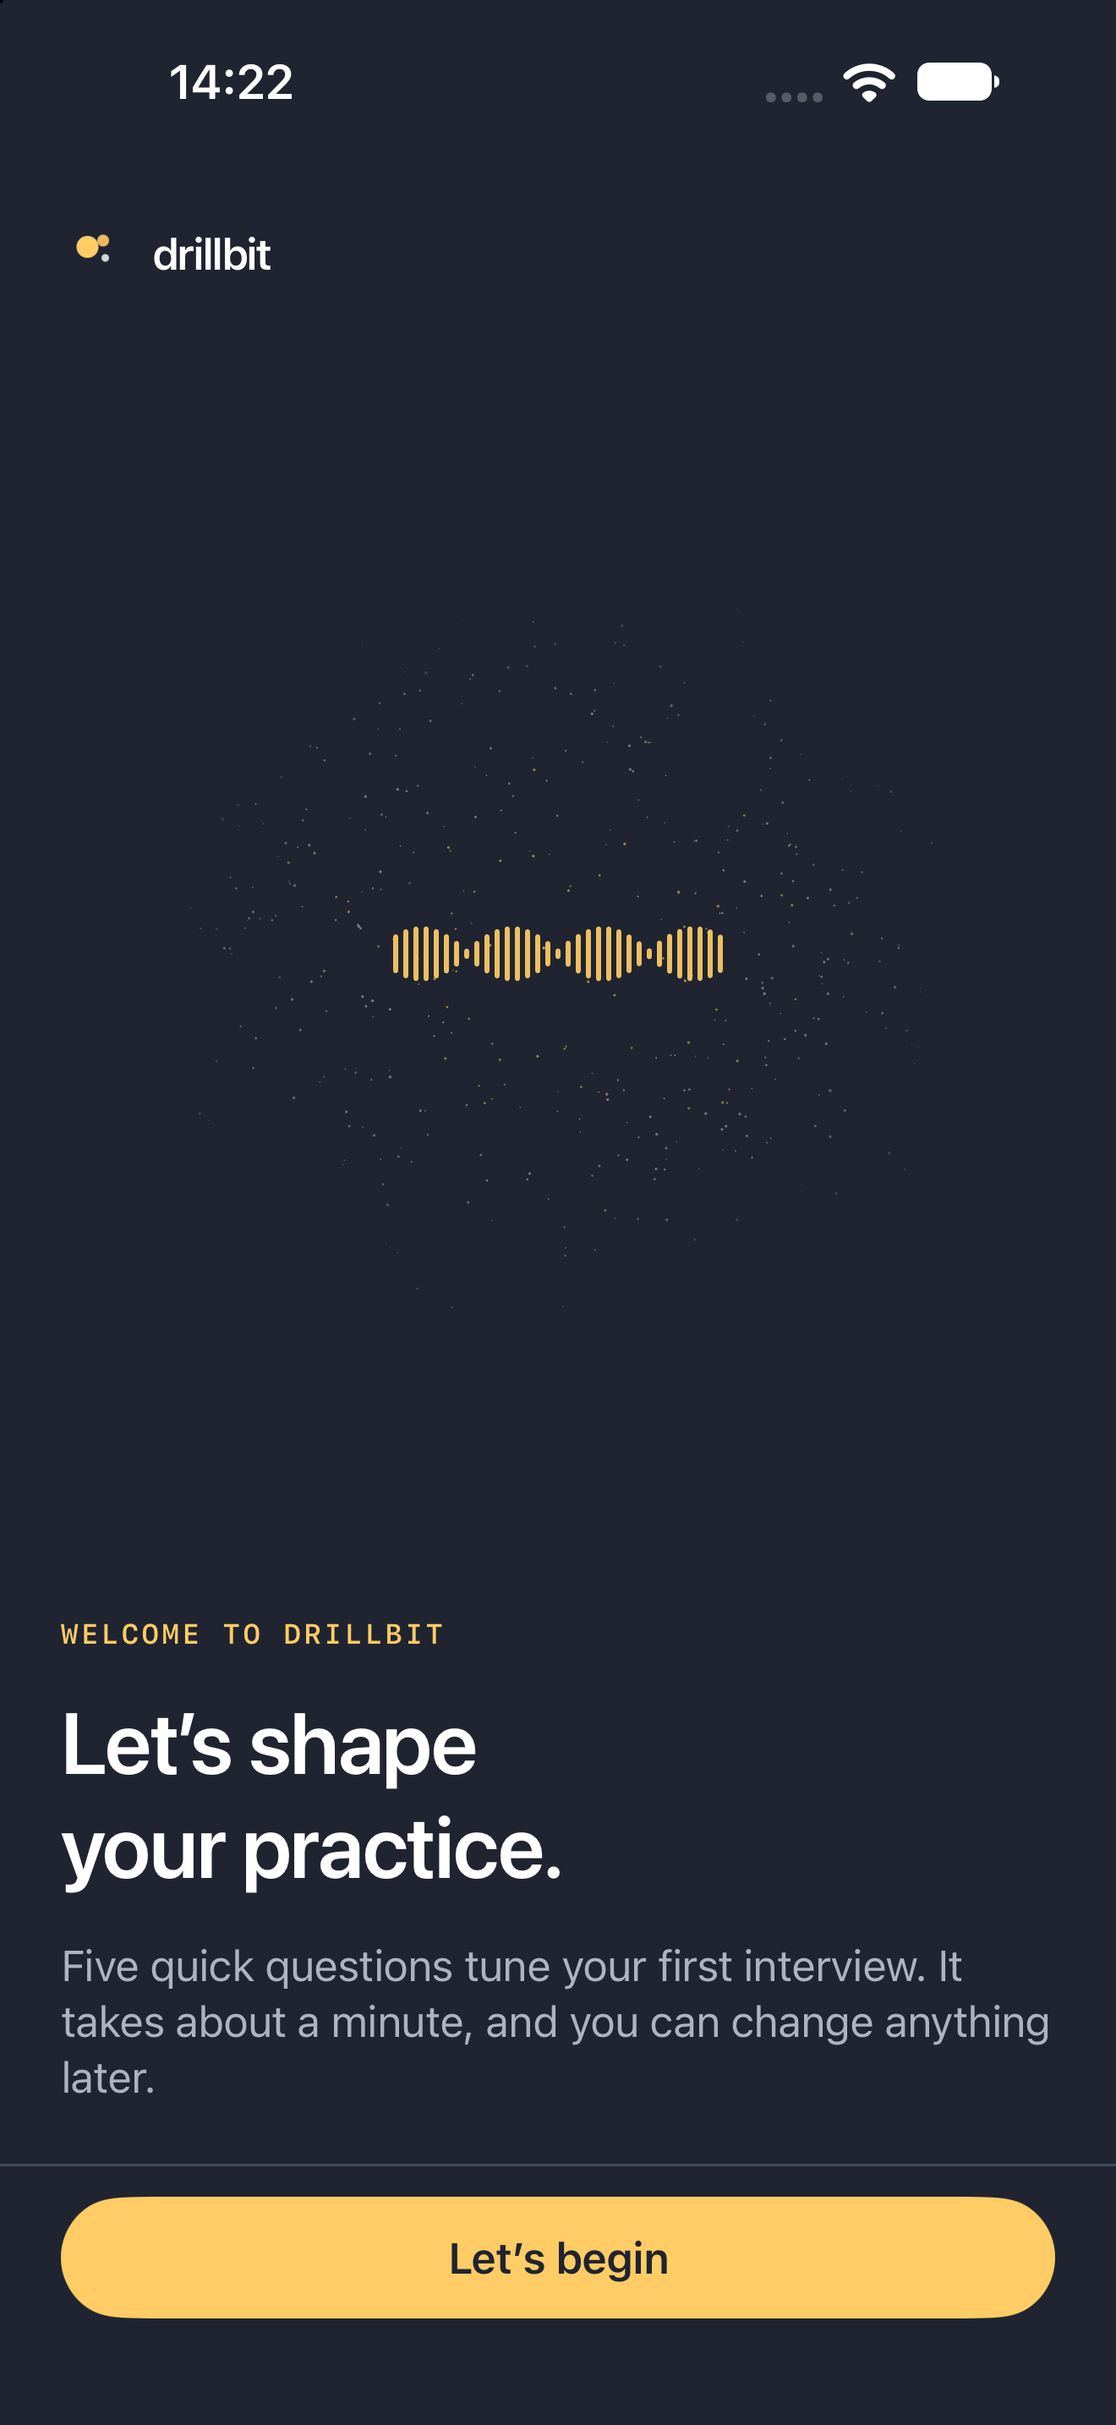
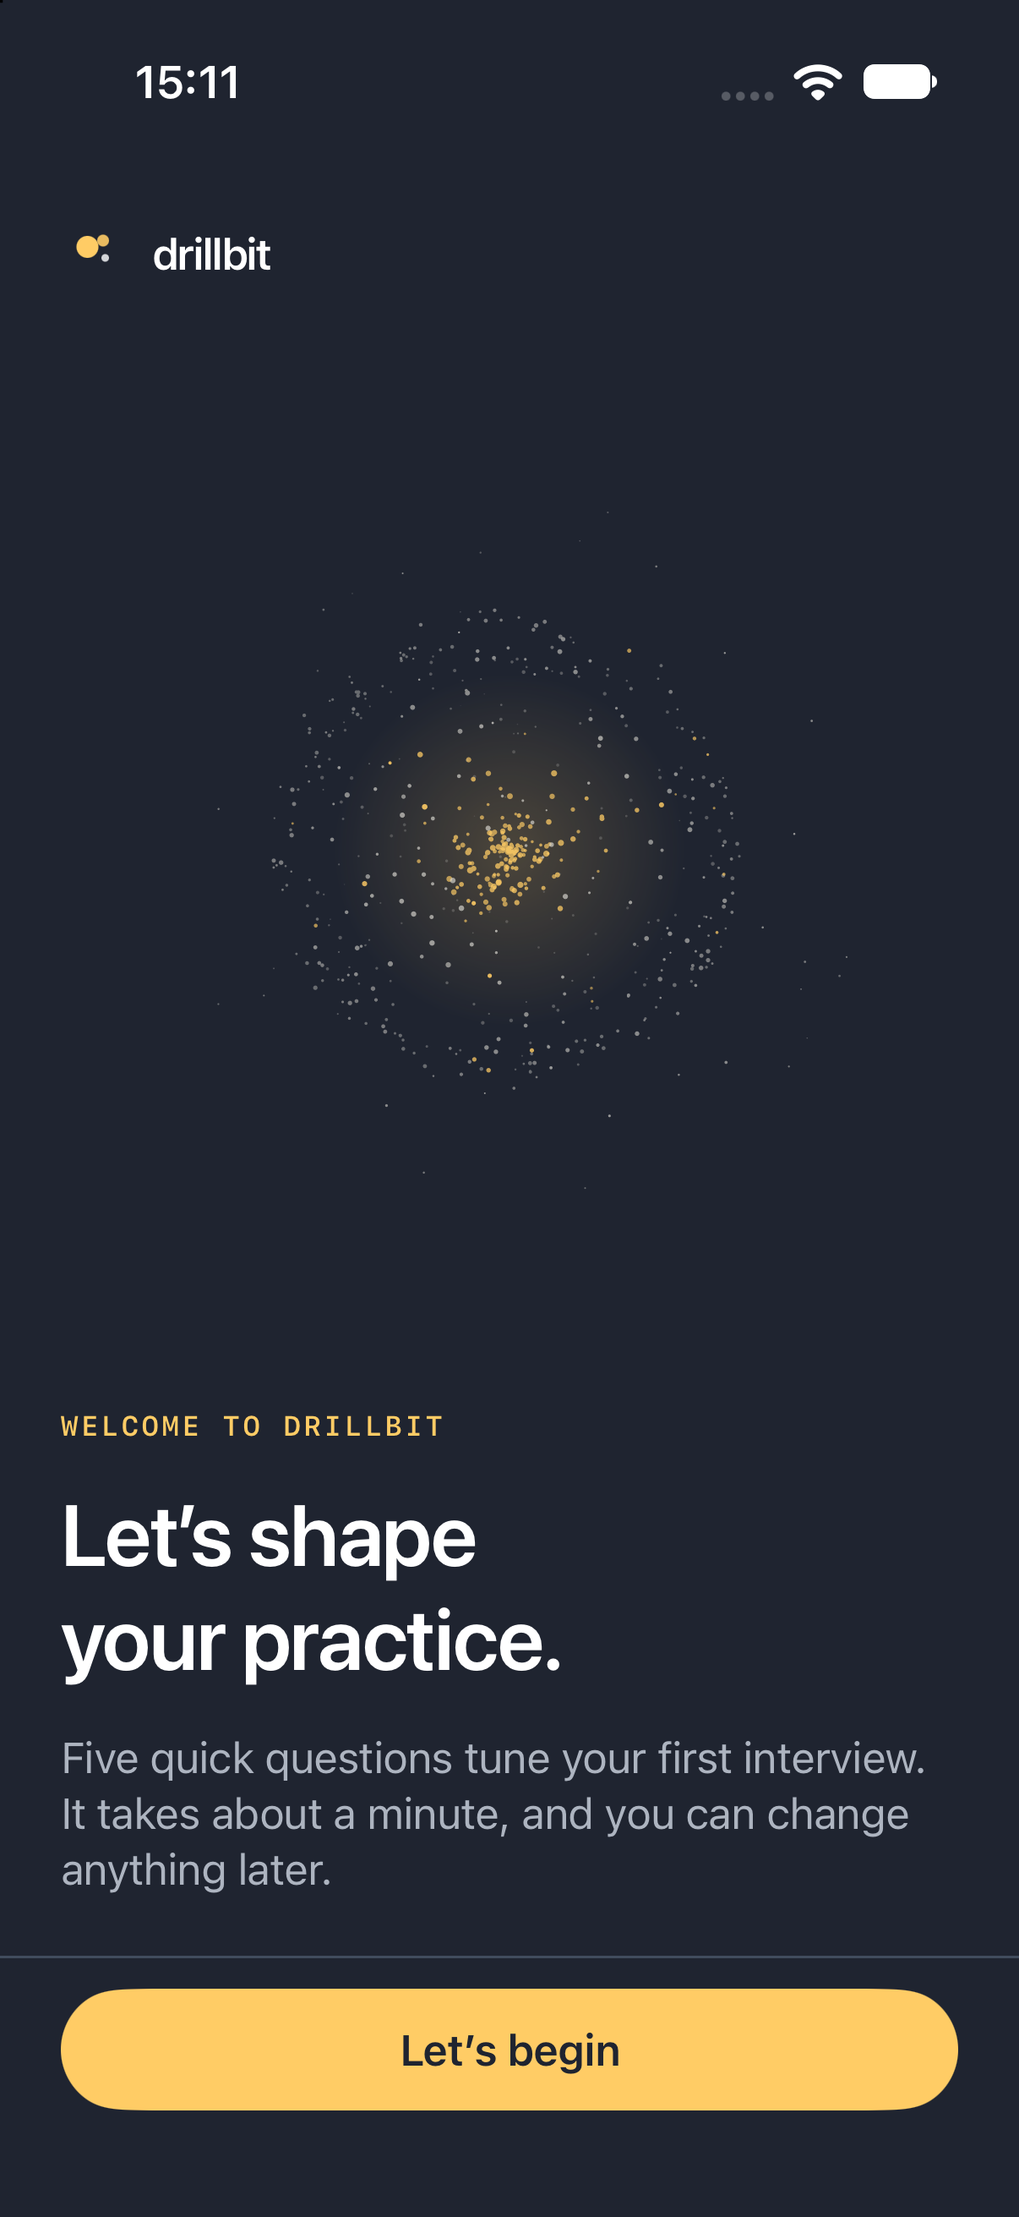
feat(ios): turn the presence into a particle orb and move sign-in after the walkthrough
The presence is now a slowly turning 3D particle orb: a warm core with a soft glow, a thin silver shell and slower outer dust, with depth-scaled size and opacity. The waveform is gone. Live candidate audio ripples the shell, interviewer audio swells the core and glow, speech speeds the turn, and mute contracts and dims it. The walkthrough drops its Sign in now shortcut; sign-in follows the fourth page. Captures and architecture notes are updated.

diff --git a/apps/ios/Drillbit/DesignSystem.swift b/apps/ios/Drillbit/DesignSystem.swift
@@ -100,9 +100,9 @@ struct DrillbitLogo: View {
   func reset() { input = 0; output = 0 }
 }
 
-/// The interviewer's presence: a deterministic particle field and waveform.
-/// Ambient drift is slow; live levels push the silver grain (you) and the warm
-/// core (interviewer). Reduce Motion, Still mode and background render the texture.
+/// The interviewer's presence: a slowly turning particle orb around a warm core.
+/// Live levels ripple the silver shell (you) and swell the yellow core (interviewer).
+/// Reduce Motion, Still mode and background render one still frame.
 struct SignalPresence: View {
   enum Mode: Equatable { case still, ambient, connecting, live, muted }
   var mode: Mode = .ambient
@@ -136,10 +136,9 @@ struct PresenceFrame: Sendable {
   var output = 0.0
   var quiet = 0.0
   var connecting = 0.0
-  var wavePhase = 0.0
-  var amplitude = 1.0
+  var spin = 0.0
   static func rest(_ mode: SignalPresence.Mode) -> PresenceFrame {
-    PresenceFrame(quiet: mode == .muted ? 1 : 0, amplitude: mode == .muted ? 0.14 : 1)
+    PresenceFrame(quiet: mode == .muted ? 1 : 0)
   }
 }
 
@@ -154,23 +153,15 @@ struct PresenceFrame: Sendable {
     origin = start
     let dt = min(0.1, max(0, date.timeIntervalSince(last ?? date)))
     last = date
-    let time = date.timeIntervalSince(start)
     let live = mode == .live
-    frame.time = time
+    frame.time = date.timeIntervalSince(start)
     frame.input = approach(frame.input, live ? levels?.input ?? 0 : 0, dt, attack: 0.06, release: 0.28)
     frame.output = approach(frame.output, live ? levels?.output ?? 0 : 0, dt, attack: 0.06, release: 0.28)
     frame.quiet = approach(frame.quiet, mode == .muted ? 1 : 0, dt, attack: 0.2, release: 0.2)
     frame.connecting = approach(frame.connecting, mode == .connecting ? 1 : 0, dt, attack: 0.25, release: 0.25)
     frame.motion = approach(frame.motion, 1, dt, attack: 0.6, release: 0.6)
-    let energy = max(frame.input, frame.output)
-    frame.wavePhase += dt * (0.6 + 2.6 * energy)
-    let target: Double = switch mode {
-    case .still, .ambient: 0.92 + 0.08 * sin(time * 0.8)
-    case .connecting: 0.5 + 0.2 * sin(time * 2.4)
-    case .live: 0.3 + 0.9 * min(1, energy)
-    case .muted: 0.14
-    }
-    frame.amplitude = approach(frame.amplitude, target, dt, attack: 0.08, release: 0.2)
+    // Integrated so speech speeds the turn without the orb jumping.
+    frame.spin += dt * (0.1 + 0.3 * max(frame.input, frame.output)) * (1 - 0.7 * frame.quiet)
     return frame
   }
 
@@ -180,21 +171,21 @@ struct PresenceFrame: Sendable {
 }
 
 struct SignalParticle: Sendable {
-  static let buckets = 8
-  var angle: Double
+  enum Layer: Sendable { case core, shell, dust }
+  static let depthBuckets = 8
+  var layer: Layer
+  var theta: Double
+  var height: Double
+  var ring: Double
   var radius: Double
   var size: Double
   var warm: Bool
-  var bucket: Int
-  var spin: Double
   var phase: Double
   var response: Double
 
-  static func opacity(bucket: Int) -> Double { bucket == 0 ? 0.18 : 0.32 + Double(bucket - 1) / Double(buckets - 2) * 0.36 }
-
   @MainActor private static var cache: [Int: [SignalParticle]] = [:]
 
-  /// Rest positions reproduce the original still texture exactly.
+  /// Deterministic: the same density always produces the same orb.
   @MainActor static func field(_ density: Int) -> [SignalParticle] {
     if let cached = cache[density] { return cached }
     var seed: UInt64 = 0x5349474E414C
@@ -204,23 +195,29 @@ struct SignalParticle: Sendable {
     }
     var particles: [SignalParticle] = []
     particles.reserveCapacity(density)
-    for index in 0..<density {
-      let angle = unit() * .pi * 2
-      let radius = min(1.18, (unit() + unit() + unit()) / 3 * 1.42)
-      let size = 0.45 + unit() * 0.75
-      let warm = radius < 0.46 || (radius < 0.82 && unit() < 0.14)
-      // Motion traits use an independent hash so the rest layout is unchanged.
-      var mix = UInt64(index + 1) &* 0x9E3779B97F4A7C15
-      func trait() -> Double {
-        mix ^= mix >> 30; mix = mix &* 0xBF58476D1CE4E5B9; mix ^= mix >> 27
-        return Double(mix >> 11) / Double(1 << 53)
+    for _ in 0..<density {
+      let pick = unit()
+      let layer: Layer = pick < 0.22 ? .core : pick < 0.93 ? .shell : .dust
+      let theta = unit() * .pi * 2
+      let height = unit() * 2 - 1
+      let radius: Double
+      let size: Double
+      switch layer {
+      case .core:
+        let gaussian = sqrt(-2 * log(max(unit(), 1e-9))) * cos(2 * .pi * unit())
+        radius = min(0.5, abs(gaussian) * 0.2)
+        size = 1.2 + unit() * 1.2
+      case .shell:
+        // A thin shell keeps a readable sphere edge when projected.
+        radius = 0.8 + (unit() + unit() + unit() - 1.5) * 0.055
+        size = 0.8 + unit()
+      case .dust:
+        radius = 1.0 + unit() * 0.28
+        size = 0.5 + unit() * 0.6
       }
-      let speed = (0.035 + 0.05 * trait()) * (1.25 - min(radius, 1.1))
-      let direction = trait() < 0.15 ? -1.0 : 1.0
-      let opacity = radius > 0.95 ? 0.18 : 0.32 + (1 - radius) * 0.36
-      let bucket = radius > 0.95 ? 0 : 1 + min(buckets - 2, Int(((opacity - 0.32) / 0.36 * Double(buckets - 2)).rounded()))
-      particles.append(SignalParticle(angle: angle, radius: radius, size: size, warm: warm, bucket: bucket,
-        spin: speed * direction, phase: trait() * .pi * 2, response: 0.6 + 0.8 * trait()))
+      let warm = layer == .core || (layer == .shell && unit() < 0.05)
+      particles.append(SignalParticle(layer: layer, theta: theta, height: height, ring: sqrt(1 - height * height),
+        radius: radius, size: size, warm: warm, phase: unit() * .pi * 2, response: 0.6 + 0.8 * unit()))
     }
     cache[density] = particles
     return particles
@@ -229,42 +226,49 @@ struct SignalParticle: Sendable {
 
 enum SignalPresenceRenderer {
   static func draw(_ particles: [SignalParticle], frame: PresenceFrame, in context: inout GraphicsContext, size: CGSize) {
-    let center = CGPoint(x: size.width / 2, y: size.height / 2)
-    let breath = frame.connecting * 0.1 * (0.5 + 0.5 * sin(frame.time * 2.4))
+    let cx = Double(size.width) / 2, cy = Double(size.height) / 2
+    let scale = Double(min(size.width, size.height)) * 0.4
+    let breath = frame.connecting * (0.5 + 0.5 * sin(frame.time * 2.4)) * 0.35
     let listening = max(frame.input, breath)
     let speaking = max(frame.output, breath)
-    let contraction = 1 - 0.05 * frame.quiet
-    var warm = Array(repeating: Path(), count: SignalParticle.buckets)
-    var grain = Array(repeating: Path(), count: SignalParticle.buckets)
-    for particle in particles {
-      let swirl = frame.time * particle.spin * frame.motion
-      let pulse = 1 + 0.018 * sin(frame.time * 0.7 + particle.phase) * frame.motion
-      let energy = particle.warm ? speaking : listening
-      let push = particle.warm ? energy * 0.22 * (1.1 - particle.radius) : energy * 0.16 * particle.radius
-      let radius = particle.radius * pulse * (1 + push * particle.response) * contraction
-      let jitter = energy * 1.6 * frame.motion
-      let x = Double(center.x) + cos(particle.angle + swirl) * Double(size.width) * 0.45 * radius + cos(frame.time * 3.1 + particle.phase) * jitter
-      let y = Double(center.y) + sin(particle.angle + swirl) * Double(size.height) * 0.45 * radius + sin(frame.time * 2.7 + particle.phase) * jitter
-      let rect = CGRect(x: x, y: y, width: particle.size, height: particle.size)
-      if particle.warm { warm[particle.bucket].addEllipse(in: rect) } else { grain[particle.bucket].addEllipse(in: rect) }
-    }
     let quiet = 1 - 0.45 * frame.quiet
-    for bucket in 0..<SignalParticle.buckets {
-      let base = SignalParticle.opacity(bucket: bucket)
-      context.fill(warm[bucket], with: .color(AppPalette.action.opacity(min(1, base * (1 + speaking * 0.7)) * quiet)))
-      context.fill(grain[bucket], with: .color(AppPalette.grain.opacity(min(1, base * (1 + listening * 0.5)) * quiet)))
+    let contraction = 1 - 0.06 * frame.quiet
+    let tilt = 0.38 + 0.05 * sin(frame.time * 0.23) * frame.motion
+    let cosTilt = cos(tilt), sinTilt = sin(tilt)
+
+    let glow = scale * (0.62 + 0.25 * speaking)
+    context.fill(Path(ellipseIn: CGRect(x: cx - glow, y: cy - glow, width: 2 * glow, height: 2 * glow)),
+      with: .radialGradient(Gradient(colors: [AppPalette.action.opacity((0.2 + 0.22 * speaking) * quiet), AppPalette.action.opacity(0)]),
+        center: CGPoint(x: cx, y: cy), startRadius: 0, endRadius: glow))
+
+    let buckets = SignalParticle.depthBuckets
+    var warm = Array(repeating: Path(), count: buckets)
+    var grain = Array(repeating: Path(), count: buckets)
+    for particle in particles {
+      var radius = particle.radius * contraction * (1 + 0.02 * sin(frame.time * 0.8 + particle.phase) * frame.motion)
+      switch particle.layer {
+      case .core: radius *= 1 + speaking * 0.45 * particle.response
+      case .shell: radius *= 1 + listening * (0.05 + 0.07 * sin(3 * particle.theta + frame.time * 5 + particle.phase)) * particle.response
+      case .dust: radius *= 1 + (listening + speaking) * 0.06
+      }
+      // Dust turns slower than the shell, which reads as depth.
+      let angle = particle.theta + frame.spin * (particle.layer == .dust ? 0.6 : 1)
+      let x = radius * particle.ring * cos(angle)
+      let z0 = radius * particle.ring * sin(angle)
+      let y0 = radius * particle.height
+      let y = y0 * cosTilt - z0 * sinTilt
+      let z = y0 * sinTilt + z0 * cosTilt
+      let depth = min(1, max(0, (z / 1.28 + 1) / 2))
+      let dot = particle.size * (0.55 + 0.9 * depth)
+      let rect = CGRect(x: cx + x * scale - dot / 2, y: cy + y * scale - dot / 2, width: dot, height: dot)
+      let bucket = min(buckets - 1, Int(depth * Double(buckets)))
+      if particle.warm { warm[bucket].addEllipse(in: rect) } else { grain[bucket].addEllipse(in: rect) }
     }
-    let bars = 33
-    let barWidth = 2.0, gap = 2.0
-    let start = Double(center.x) - (Double(bars) * barWidth + Double(bars - 1) * gap) / 2
-    var wave = Path()
-    for index in 0..<bars {
-      let ripple = abs(sin(Double(index) * 0.35 + frame.wavePhase * frame.motion))
-      let height = 4 + 18 * ripple * frame.amplitude
-      let rect = CGRect(x: start + Double(index) * (barWidth + gap), y: Double(center.y) - height / 2, width: barWidth, height: height)
-      wave.addRoundedRect(in: rect, cornerSize: CGSize(width: 1, height: 1))
+    for bucket in 0..<buckets {
+      let depth = (Double(bucket) + 0.5) / Double(buckets)
+      context.fill(grain[bucket], with: .color(AppPalette.grain.opacity(min(1, (0.08 + 0.72 * depth) * (1 + listening * 0.6)) * quiet)))
+      context.fill(warm[bucket], with: .color(AppPalette.action.opacity(min(1, (0.4 + 0.6 * depth) * (1 + speaking * 0.5)) * quiet)))
     }
-    context.fill(wave, with: .color(AppPalette.action.opacity(0.92 * quiet)))
   }
 }
 

diff --git a/apps/ios/Drillbit/WelcomeView.swift b/apps/ios/Drillbit/WelcomeView.swift
@@ -48,13 +48,10 @@ struct WelcomeView: View {
     }
     .clipped()
     .safeAreaInset(edge: .top, spacing: 0) {
-      SignalStepProgress(step: page + 1, total: 4) {
-        Button("Sign in now") { finishWalkthrough() }
-          .font(.subheadline.weight(.medium)).frame(minHeight: 44)
-      }
-      .frame(maxWidth: 560).padding(.horizontal, 24).padding(.top, 8)
-      .frame(maxWidth: .infinity)
-      .background(AppPalette.background)
+      SignalStepProgress(step: page + 1, total: 4)
+        .frame(maxWidth: 560).padding(.horizontal, 24).padding(.top, 16)
+        .frame(maxWidth: .infinity)
+        .background(AppPalette.background)
     }
     .safeAreaInset(edge: .bottom, spacing: 0) {
       VStack(spacing: 0) {
@@ -163,7 +160,7 @@ struct WelcomeView: View {
         VStack(spacing: 32) {
           VStack(spacing: 16) {
             DrillbitLogo()
-            SignalPresence(density: 480).frame(height: 190)
+            SignalPresence(density: 600).frame(height: 190)
             VStack(spacing: 8) {
               Text(inviting ? "One last step." : "Ready when you are.")
                 .font(.title2.weight(.semibold))

diff --git a/apps/ios/Drillbit/SetupView.swift b/apps/ios/Drillbit/SetupView.swift
@@ -285,7 +285,7 @@ private struct SetupIntroduction: View {
     VStack(alignment: .leading, spacing: 0) {
       DrillbitLogo(compact: true).signalEntrance(0, active: animatesIn)
       Spacer(minLength: 40)
-      SignalPresence(density: 420)
+      SignalPresence(density: 640)
         .frame(maxWidth: 320, maxHeight: 320)
         .frame(maxWidth: .infinity)
         .frame(height: 280)

diff --git a/docs/architecture.md b/docs/architecture.md
@@ -444,8 +444,8 @@ Home, Recall and Library share one transparent tab-clearance modifier. Guided an
 
 Primary buttons scale to 0.97 and icon buttons to 0.96 on touch, with a darker fill or inset; Reduced Motion keeps the colour cue and drops the scale. Page-floor rows show an inset only while pressed. Choice rows animate their inset and a contextual checkmark, fire a selection haptic, and hide the rules adjacent to a selection. Disclosure chevrons rotate with the disclosure's own transaction instead of swapping symbols.
 
-`SignalPresence` supersedes the static particle field and waveform and the earlier “no idle animation” rule. Rest positions are unchanged. Ambient mode drifts slowly on Welcome, setup and the idle voice room; connecting breathes; live mode reads WebRTC's own `audioLevel` statistics (media-source for the candidate, inbound-rtp for the interviewer) at roughly 12 Hz, mapped from −50…−10 dBFS. Candidate energy moves the silver grain and interviewer energy the yellow core; muted contracts and dims. Levels live in an unobserved `VoiceLevels` object read per frame, so they never invalidate SwiftUI views. Reduce Motion, background, Still mode and offscreen views render the original still texture; Low Power Mode lowers the frame rate. Stats polling does not touch the manually managed audio unit. Fixture voice sessions use a synthetic envelope. Live-level behaviour needs physical-device verification.
+`SignalPresence` supersedes the static particle field and waveform and the earlier “no idle animation” rule. It draws a deterministic particle orb — a warm yellow core with a soft glow, a silver shell and sparse outer dust — projected in 3D with depth-scaled size and opacity. There is no waveform. Ambient mode turns the orb slowly on Welcome, setup and the idle voice room; connecting breathes; live mode reads WebRTC's own `audioLevel` statistics (media-source for the candidate, inbound-rtp for the interviewer) at roughly 12 Hz, mapped from −50…−10 dBFS. Candidate energy ripples the shell and interviewer energy swells the core and glow; speech speeds the turn, and muted contracts and dims. Levels live in an unobserved `VoiceLevels` object read per frame, so they never invalidate SwiftUI views. Reduce Motion, background, Still mode and offscreen views render one still frame; Low Power Mode lowers the frame rate. Stats polling does not touch the manually managed audio unit. Fixture voice sessions use a synthetic envelope. Live-level behaviour needs physical-device verification.
 
-Onboarding: the signed-out walkthrough and setup share `SignalStepProgress` (a fixed step count with a yellow-filled track), directional page slides, a pinned footer with a fixed-width Back, and scroll-to-top per page. Welcome leads with “Think out loud. Get sharper.”; setup introduces itself as a one-minute personal start, so the two heroes no longer repeat. Authentication reserves its progress row, focuses the invite field and submits on Return. Root stages (restoration, welcome, setup, app) cross-fade; restoration shows a spinner only after 1.2 seconds. Tour coachmarks carry their tab's symbol and slide in from the bottom.
+Onboarding: the signed-out walkthrough and setup share `SignalStepProgress` (a fixed step count with a yellow-filled track), directional page slides, a pinned footer with a fixed-width Back, and scroll-to-top per page. The walkthrough has no Sign in now shortcut; sign-in follows its fourth page. Welcome leads with “Think out loud. Get sharper.”; setup introduces itself as a one-minute personal start, so the two heroes no longer repeat. Authentication reserves its progress row, focuses the invite field and submits on Return. Root stages (restoration, welcome, setup, app) cross-fade; restoration shows a spinner only after 1.2 seconds. Tour coachmarks carry their tab's symbol and slide in from the bottom.
 
 Completion shows the three-point mark arriving, draws the quote-to-observation rule once and plays a success haptic when feedback arrives. Recall cards slide between reviews, and Paths are now area sets built from the authored catalogue, each with visible card counts, a Leave path action and set-specific completion copy; they never touch personal Recall. The assistance sheet uses the app's primary button (the previous system prominent style put white text on yellow). Haptics are limited to selection changes, onboarding summary arrival, accepted answers, voice connection and mute, completed walkthrough, arriving feedback and Recall Got it.

diff --git a/docs/design/signal-implementation/README.md b/docs/design/signal-implementation/README.md
@@ -2,13 +2,14 @@
 
 Simulator captures from the SwiftUI implementation of the [Signal direction](../figma-comparison/drillbit-signal-app-board.svg). These are local fixture and UI-test states, not live-service or device captures.
 
-Refreshed 27 September 2026 on iPhone 18 Pro Max, iOS 27.0, after the motion and onboarding polish:
+Refreshed 27 September 2026 on iOS 27.0 after the motion and onboarding polish (iPhone 18 Pro Max unless marked iPhone 17):
 
-- `welcome-dark.png`: signed-out walkthrough with the step track, living presence and pinned footer.
-- `onboarding-intro-dark.png` and `onboarding-intro-light.png`: the personal setup introduction.
+- `welcome-dark.png`: signed-out walkthrough with the step track, presence orb and pinned footer; sign-in follows the fourth page (iPhone 17).
+- `onboarding-intro-dark.png` and `onboarding-intro-light.png`: the personal setup introduction (iPhone 17).
 - `onboarding-open-dark.png`: a setup page with inset selection, a checkmark mid-arrival and rules hidden around the selection.
 - `home-dark.png` and `home-light.png`: Home with the next question, journey, Revisit links and Explore.
 - `recall-empty-dark.png`: empty Recall state.
+- `voice-muted-dark.png`: the voice room while muted — the orb contracts and dims (iPhone 17).
 
 Earlier captures (iPhone 18 Pro, 25–26 September) that predate this pass:
 
